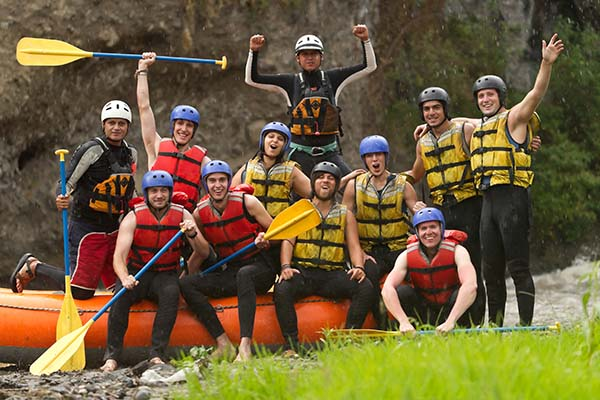
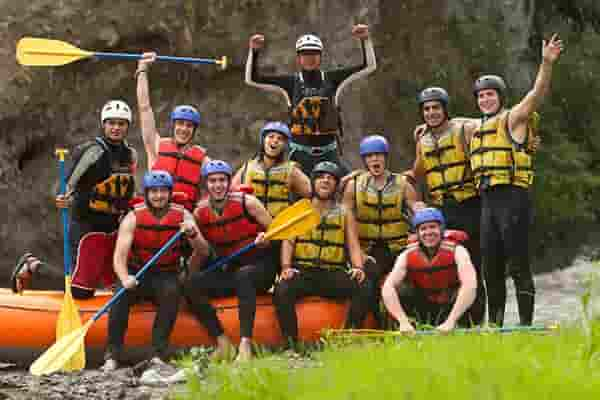
Try Week04 Project again

diff --git a/wwr/about.html b/wwr/about.html
@@ -5,7 +5,8 @@
     <meta charset="UTF-8">
     <meta name="viewport" content="width=device-width, initial-scale=1.0">
     <title>About Us - White Water Rafting</title>
-    <meta name="description" content="Find and learn of the best white watter rafting, book now">
+    <meta name="description"
+      content="This is the About Us page of Wave Pack. It contains information for you to find and learn of the best white water rafting, book now.">
     <meta name="author" content="Isaac Williams">
     <link rel="stylesheet" href="styles/rafting.css">
 </head>
@@ -13,7 +14,7 @@
 <body>
     <!-- The Header -->
     <header>
-        <img src="images/wwr-logo4.png" alt="White Watter Rafting logo">
+        <img src="images/wwr-company-logo.png" alt="Wave Pack - White Watter Rafting logo">
 
         <nav>
             <ul>
@@ -55,7 +56,7 @@
                 quae, impedit labore temporibus nesciunt dolorem itaque aliquid, beatae at.
                 Itaque ea aliquam, molestias, quibusdam asperiores unde nobis saepe odio illum,
                 ab voluptatum laboriosam rerum quae libero excepturi.</p>
-            <img src="images/wwr-logo4.png" alt="...">
+            <img src="images/wwr-company-logo.png" alt="Wave Pack - White Watter Rafting logo">
             <p class="history-text-2">Lorem ipsum dolor sit, amet consectetur adipisicing elit.
                 Ipsa, optio nihil quod
                 quae, impedit labore temporibus nesciunt dolorem itaque aliquid, beatae at.

diff --git a/wwr/contact.html b/wwr/contact.html
@@ -5,7 +5,8 @@
     <meta charset="UTF-8">
     <meta name="viewport" content="width=device-width, initial-scale=1.0">
     <title>Contact Us - Wave Packe -White Water Rafting</title>
-    <meta name="description" content="Contact us, 'Wave Pack' Here. We want to hear your concerns">
+    <meta name="description"
+      content="This is the Contact us Page of Wave Pack, Here you can contact us, 'Wave Pack'! We want to hear your concerns">
     <meta name="author" content="Isaac Williams">
     <link rel="stylesheet" href="styles/rafting.css">
 </head>
@@ -13,7 +14,7 @@
 <body>
     <!-- The Header -->
     <header>
-        <img src="images/wwr-logo4.png" alt="White Watter Rafting logo">
+        <img src="images/wwr-company-logo.png" alt="White Watter Rafting logo">
 
         <nav>
             <ul>
